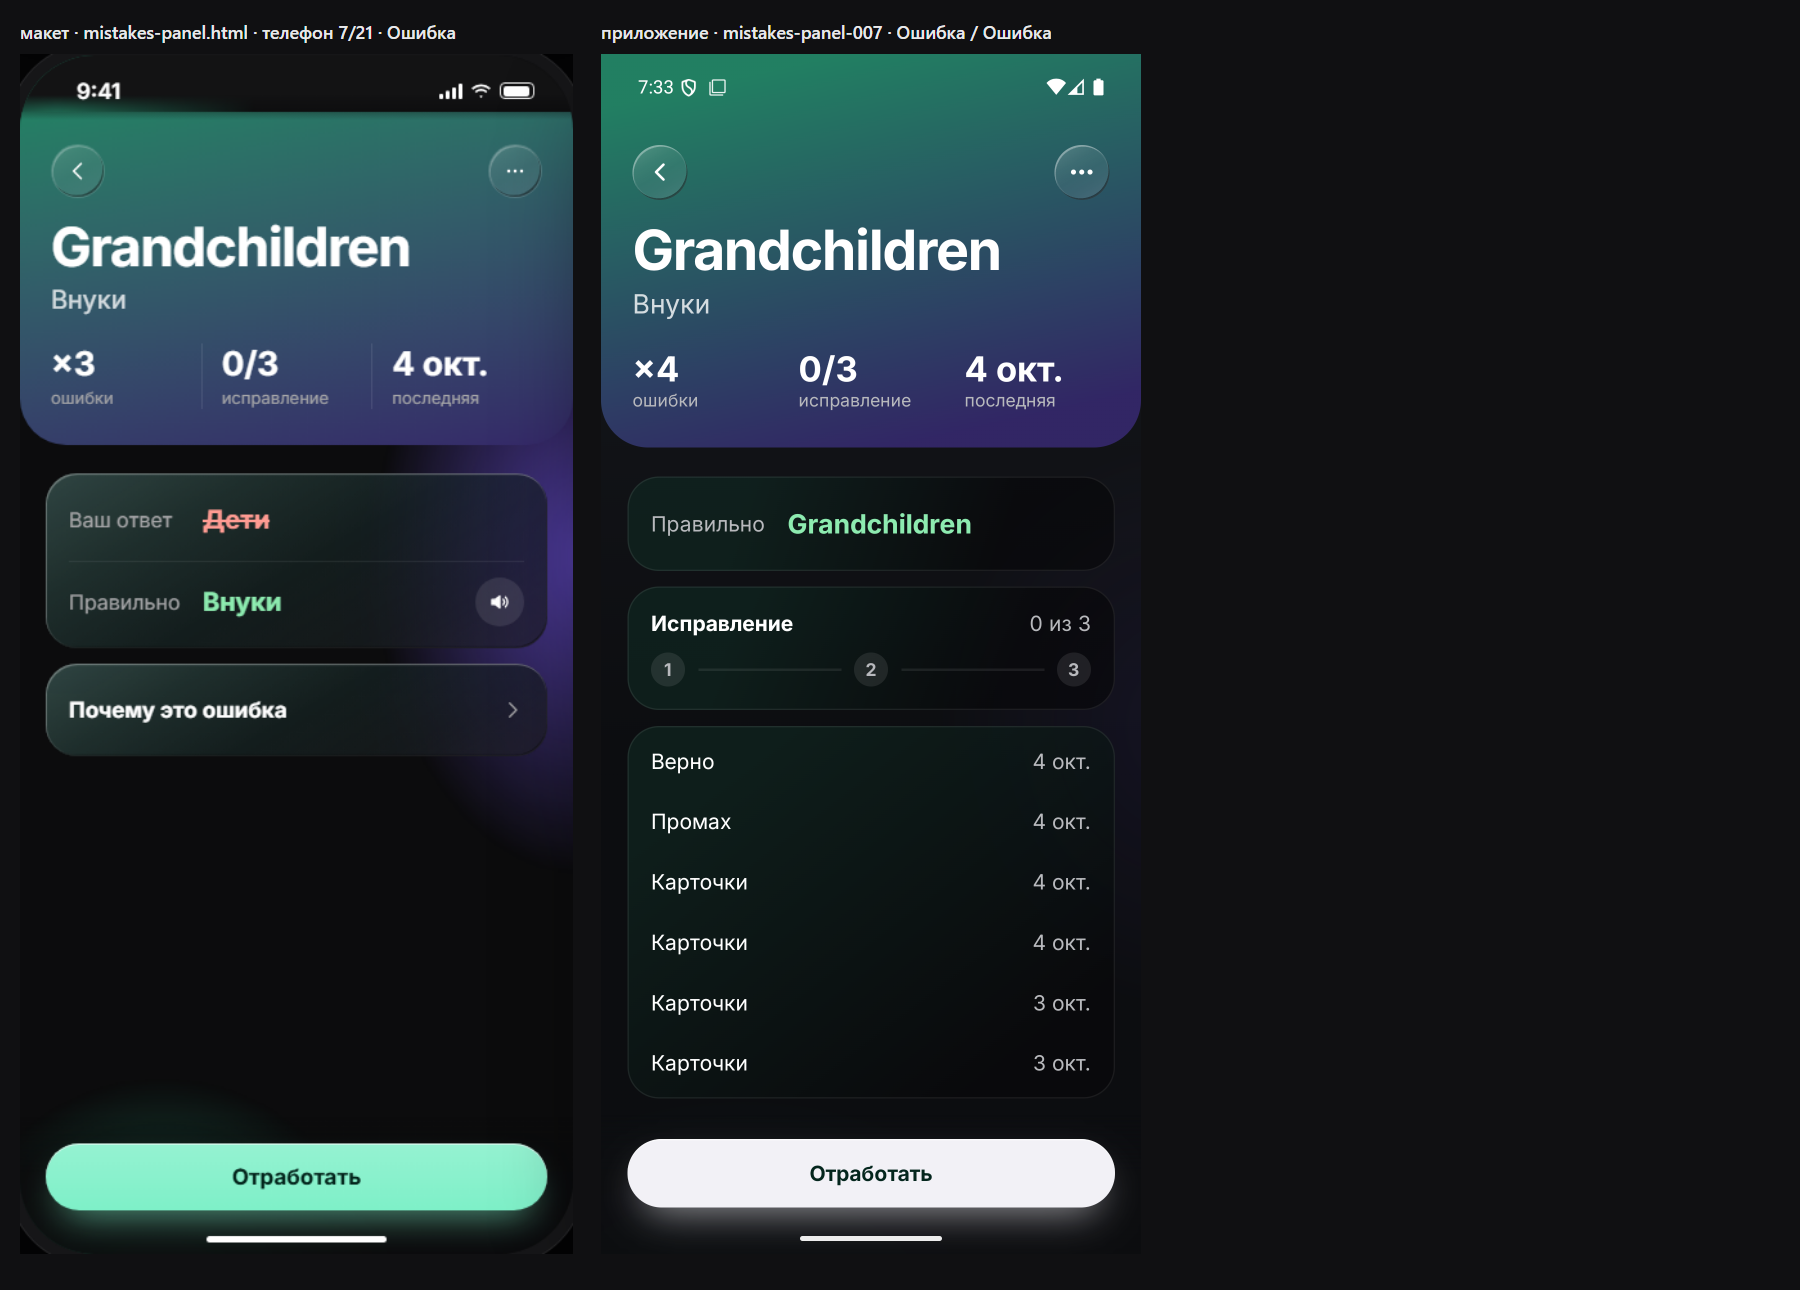
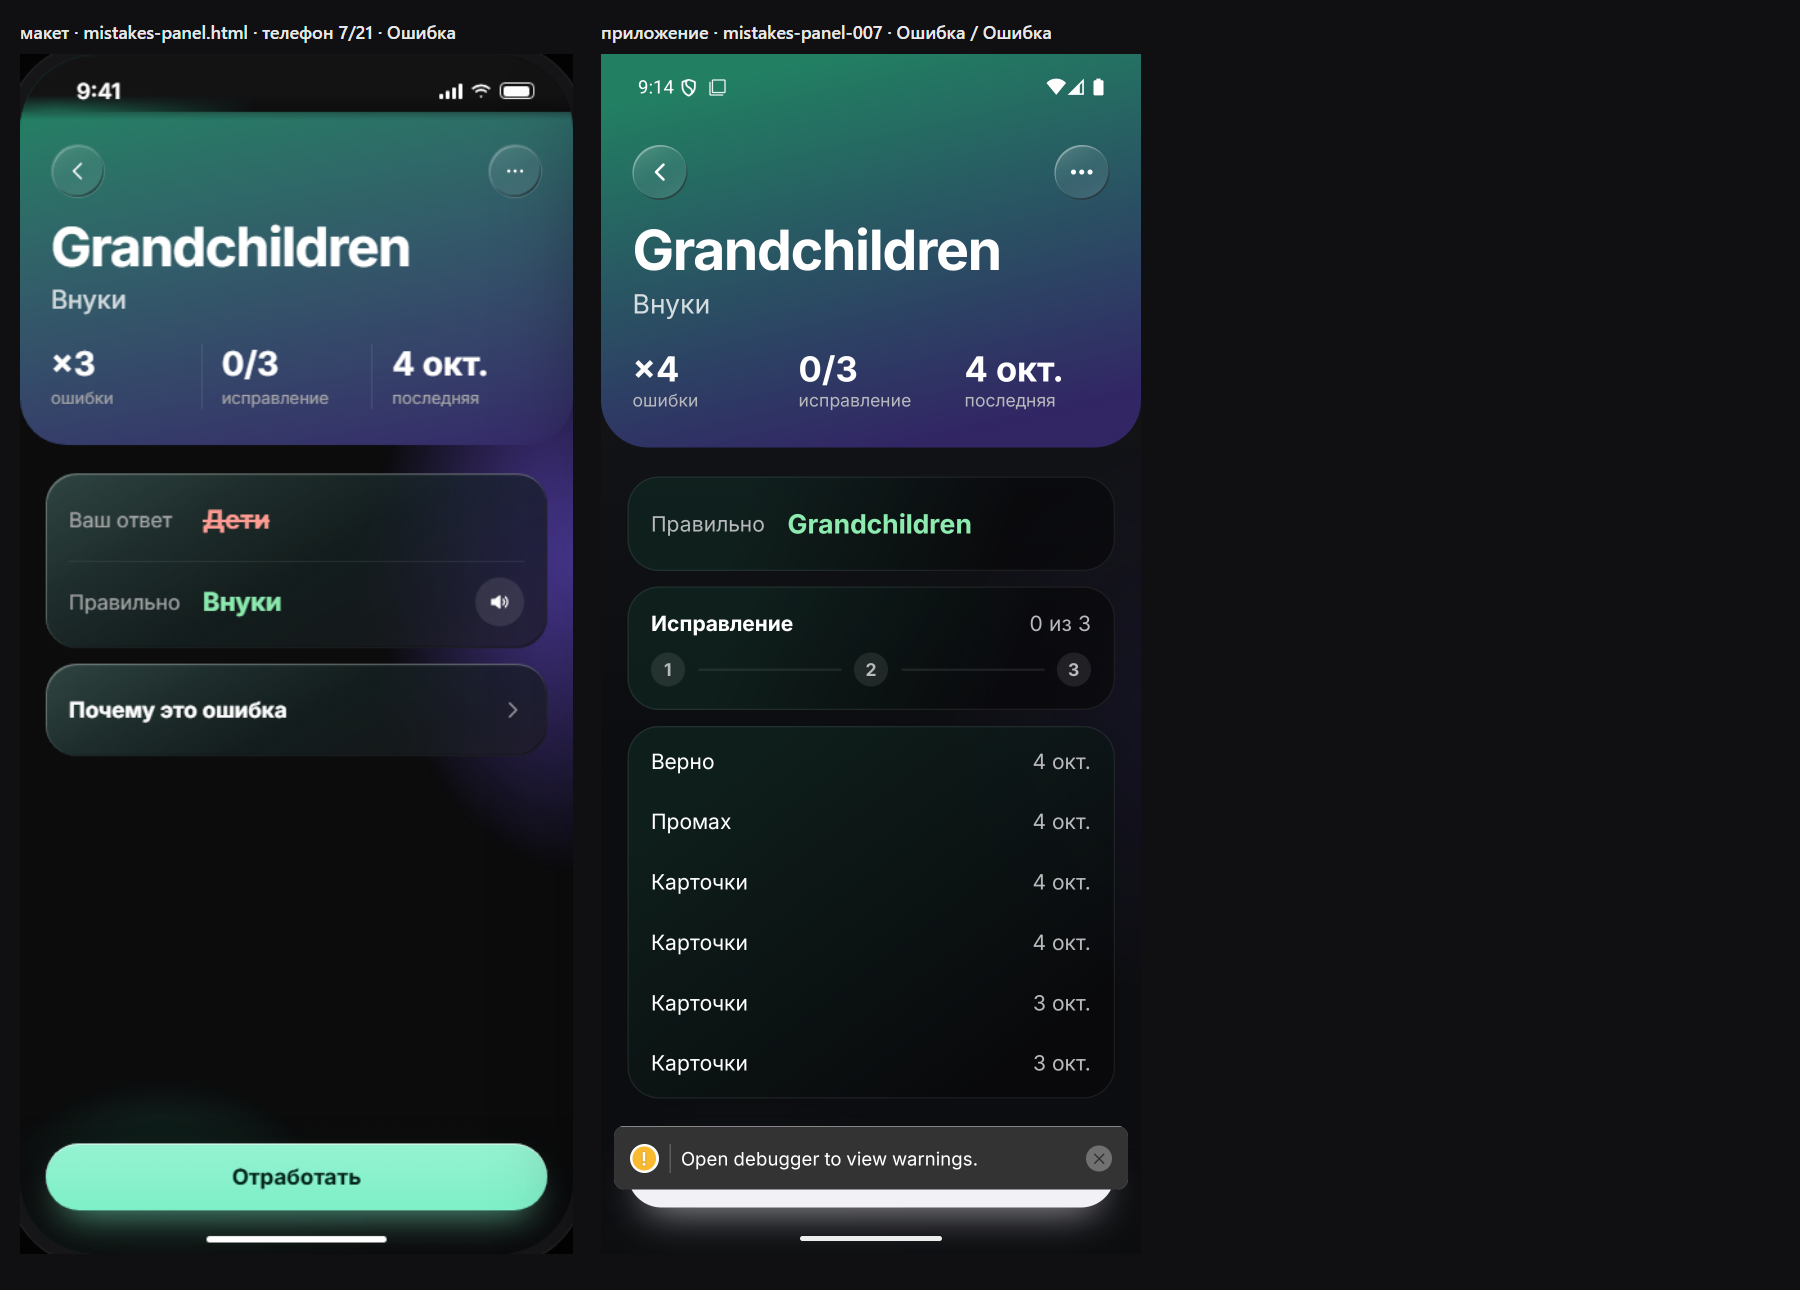
docs(parity): Ошибки — шторка, карточка, список

Changed region(s): [[0.3422, 0.8682, 0.6533, 0.9302], [0.3422, 0.062, 0.3733, 0.093]]

diff --git a/docs/phraseman-2.0/INBOX_COORDINATOR_FROM_SVERKA.md b/docs/phraseman-2.0/INBOX_COORDINATOR_FROM_SVERKA.md
@@ -480,3 +480,11 @@ cards-section-032 после 1d993b5c4 почти совпадает (шторк
 - Состояние «Верно + монеты» (D4) пока НЕ поймано: после верного ответа следующее задание открывается быстрее моей съёмки. Нужна запись экрана (`adb screenrecord`) — сделаю следующим шагом.
 - Экраны итога (E1–E4, V2DoneScreen) требуют пройти все 50 фраз; на тестовом аккаунте урок 1 пройден на 1/50. Вопрос координатору: есть ли безопасный путь открыть итог без 50 ответов (ссылка/dev-экран)? Без этого сниму итог только после прохождения.
 - Градиентная кнопка в светлых темах после 989378ea8 (Графит/Сланец/Чернила/Роза/Таупе/Олива/Шалфей, «Акцент», «Максимум») — в очереди, следующий пункт: переключаю темы и снимаю 2–3 экрана с градиентной кнопкой.
+
+## 2026-10-10 ~21:15 · СВЕРКА — градиентная кнопка в светлых темах (после 989378ea8)
+- В списке тем (светлая) НЕТ названий Графит/Сланец/Чернила/Роза/Таупе/Олива/Шалфей: есть Затмение, Иней, Шторм, Сумерки, Туманность, Комета, Рассвет, Закат, Дюна, Саванна, Мята, Лагуна, Океан и группа Аврора, Ирис, Магма, Полночь, Шампань, Нефрит, Орхидея, Лёд, Коралл. Скажите, какие из них имелись в виду (возможно, названия внутренние), — снимаю по списку.
+- Проверено на устройстве: светлая «Аврора» + ползунок «Максимум» (`LIGHT_cards-hub_aurora-max.png`): кнопка «Тренироваться» мятная с тёмным текстом — читается; карточка Boarding pass и плитки тянут цвет темы; фон светло-мятный → сиреневый. Контраст нормальный.
+- В режиме «Спокойно» (ползунок слева) светлая тема монохромная серебристая, кнопка чёрная — выбор Магма/Нефрит на хаб не влияет (акценты выключены). Это ожидаемо для «Спокойно»? Подтвердите.
+- Эмулятор возвращён в тёмную «Аврору», ползунок слева («Спокойно»).
+
+- **mistakes-panel-004 (шторка «Отработка», тёмная): СОВПАЛ**, кандидат на match (светлая — позже). **mistakes-panel-007 (карточка ошибки): ОТЛИЧИЕ** — нет блока «Ваш ответ» и динамика, вместо него «Исправление 0 из 3» и журнал попыток; нет «Почему это ошибка ›» на первом экране. **mistakes-panel-005 (список «Все ошибки»)** снят: вкладки «Ждут/Исправлены», чипы, список, кнопка «Отработать N» перекрывает последнюю строку.
